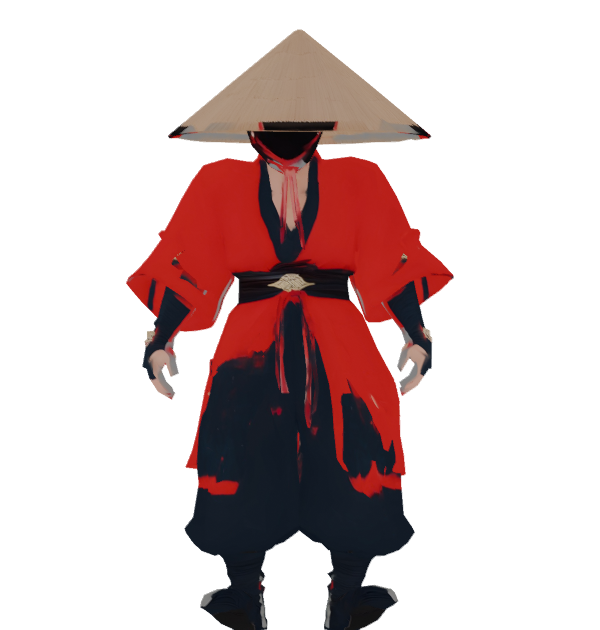
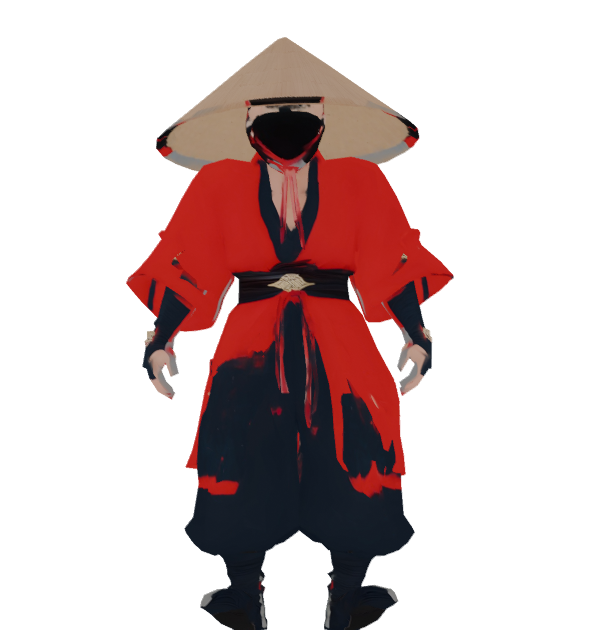
Make the swordsman the default hero; keep his hat on his head and his sword off the floor
The web and WeChat builds load the chapter-one swordsman instead of the old hero. rig.py binds
everything above joints.json's headAbove to the head bone, so a wide hat brim no longer follows
the shoulders; the hand-held sword points mostly forward, so a low hanging arm keeps its tip
above the floor.

Changed region(s): [[0.24, 0.1508, 0.72, 0.2714], [0.39, 0.0302, 0.63, 0.1508], [0.36, 0.1206, 0.39, 0.1508]]

diff --git a/client/src/three/webModels.ts b/client/src/three/webModels.ts
@@ -3,7 +3,8 @@ import type { ModelFiles } from './actor';
 // The models as the web build serves them: Tripo's own files, straight from art/. Kept apart so
 // the WeChat build can leave them out (vite.wechat3d.config.js), as it packs slimmed copies.
 
-/** Chapter-one bodies rigged by art/model3d/rig.py, picked for the hero with ?hero=<name>. */
+/** Chapter-one bodies rigged by art/model3d/rig.py: the swordsman is the hero, ?hero=<name> tries
+ * another. */
 const RIGS: Record<string, string> = {
   sword: new URL('../../../art/model3d/sword/rig_v1.glb', import.meta.url).href,
   lion: new URL('../../../art/model3d/lion/rig_v1.glb', import.meta.url).href,
@@ -17,7 +18,7 @@ const RIGS: Record<string, string> = {
 const pick = typeof location === 'undefined' ? null : new URLSearchParams(location.search).get('hero');
 
 export const WEB_FILES: ModelFiles = {
-  hero: (pick && RIGS[pick]) || new URL('../../../art/hero3d/model/rig_v1.glb', import.meta.url).href,
+  hero: (pick && RIGS[pick]) || RIGS.sword,
   clips: {
     idle: new URL('../../../art/archer3d/model/anim_idle.glb', import.meta.url).href,
     walk: new URL('../../../art/archer3d/model/anim_walk.glb', import.meta.url).href,

diff --git a/client/src/three/actor.ts b/client/src/three/actor.ts
@@ -224,9 +224,11 @@ export class Actor {
     const hq = hand.getWorldQuaternion(new Quaternion()).invert();
     const along = hand.getWorldPosition(new Vector3()).sub(fore.getWorldPosition(new Vector3())).normalize().applyQuaternion(hq);
     const s = sword();
-    // half way between the arm's line and forward, so a cut ends with the blade at the enemy
+    // mostly forward, a little down the arm's line: a cut ends with the blade at the enemy, and a
+    // hanging arm (the swordsman's reaches low) keeps the tip above the floor
     const dir = along
       .clone()
+      .multiplyScalar(0.4)
       .add(new Vector3(0, 0, -1).applyQuaternion(hq))
       .normalize();
     s.quaternion.setFromUnitVectors(UP, dir);

diff --git a/client/vite.wechat3d.config.js b/client/vite.wechat3d.config.js
@@ -19,7 +19,7 @@ const copyAssets = {
     const models = at('./wechat/models');
     rmSync(models, { recursive: true, force: true });
     mkdirSync(models, { recursive: true });
-    slimGlb(at('../art/hero3d/model/rig_v1.glb'), `${models}/hero.glb`, 'hero.jpg');
+    slimGlb(at('../art/model3d/sword/rig_v1.glb'), `${models}/hero.glb`, 'hero.jpg');
     slimGlb(at('../art/archer3d/model/anim_idle.glb'), `${models}/archer.glb`, 'archer.jpg');
     for (const clip of ['walk', 'hit', 'fall']) slimGlb(at(`../art/archer3d/model/anim_${clip}.glb`), `${models}/${clip}.glb`);
     writeFileSync(`${models}/game.js`, '// models: a pack, loaded by wx.loadSubpackage\n');

diff --git a/art/model3d/rig.py b/art/model3d/rig.py
@@ -112,6 +112,13 @@ for v in loose:
     b = min(arm.data.bones, key=lambda b: seg_dist(v.co, b))
     mesh.vertex_groups[b.name].add([v.index], 1.0, 'REPLACE')
 print(f'RIG {NAME}: {len(mesh.data.vertices)} verts, {len(loose)} unweighted fixed')
+# a hat (J['headAbove']: the height its brim starts at) rides on the head alone; bone heat lets the
+# brim follow the shoulders, and the head then pokes through it
+if 'headAbove' in J:
+    hat = [v.index for v in mesh.data.vertices if v.co.z >= J['headAbove']]
+    for g in mesh.vertex_groups: g.remove(hat)
+    mesh.vertex_groups['Head'].add(hat, 1.0, 'REPLACE')
+    print(f'RIG {NAME}: {len(hat)} hat verts on the head')
 
 # pose every bone back to the template's rest orientation, parents first, then make that the rest
 mode(arm, 'POSE')
